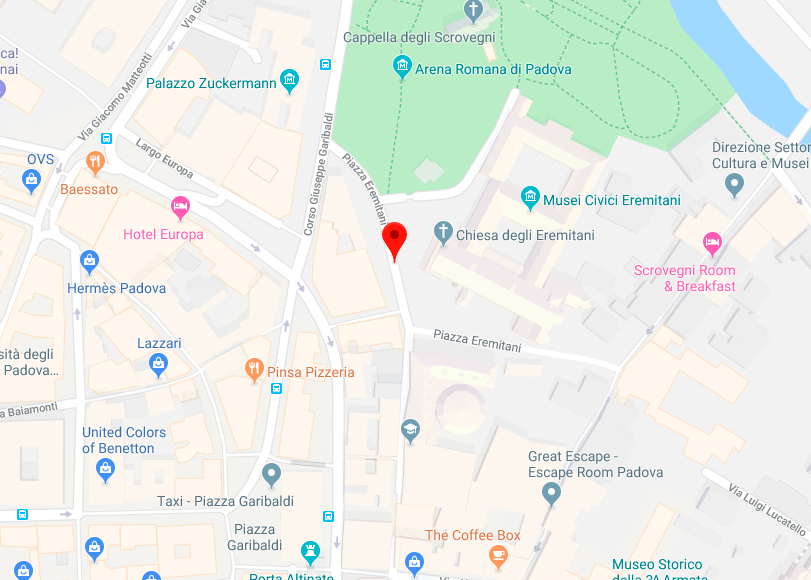
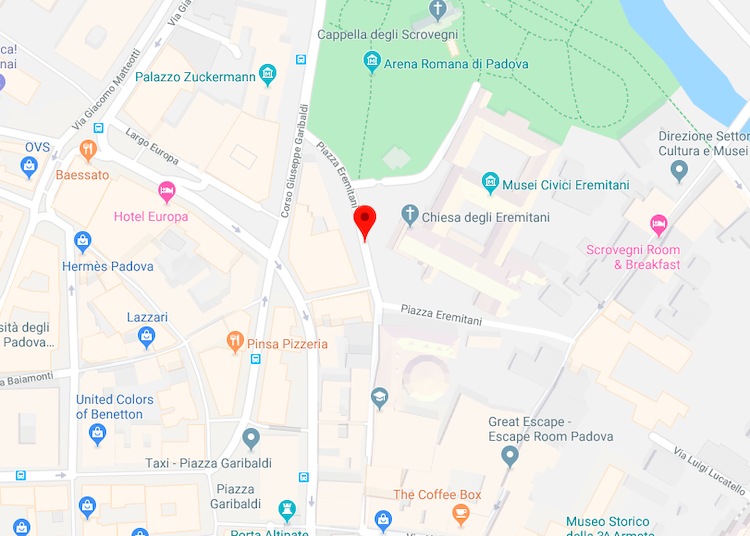
Modificato colore e dimensione icone

diff --git a/Sito/contatti.html b/Sito/contatti.html
@@ -87,7 +87,7 @@
       <a href="http://validator.w3.org/check?uri=referer"><img
       src="http://www.w3.org/Icons/valid-xhtml10" alt="Valid XHTML 1.0 Strict" height="31" width="88" /></a>
     </p>
-
+    <p xml:lang="en">Icons by </p> <a target="_blank" href="https://icons8.com">Icons8</a>
     </div>
   </body>
 </html>
